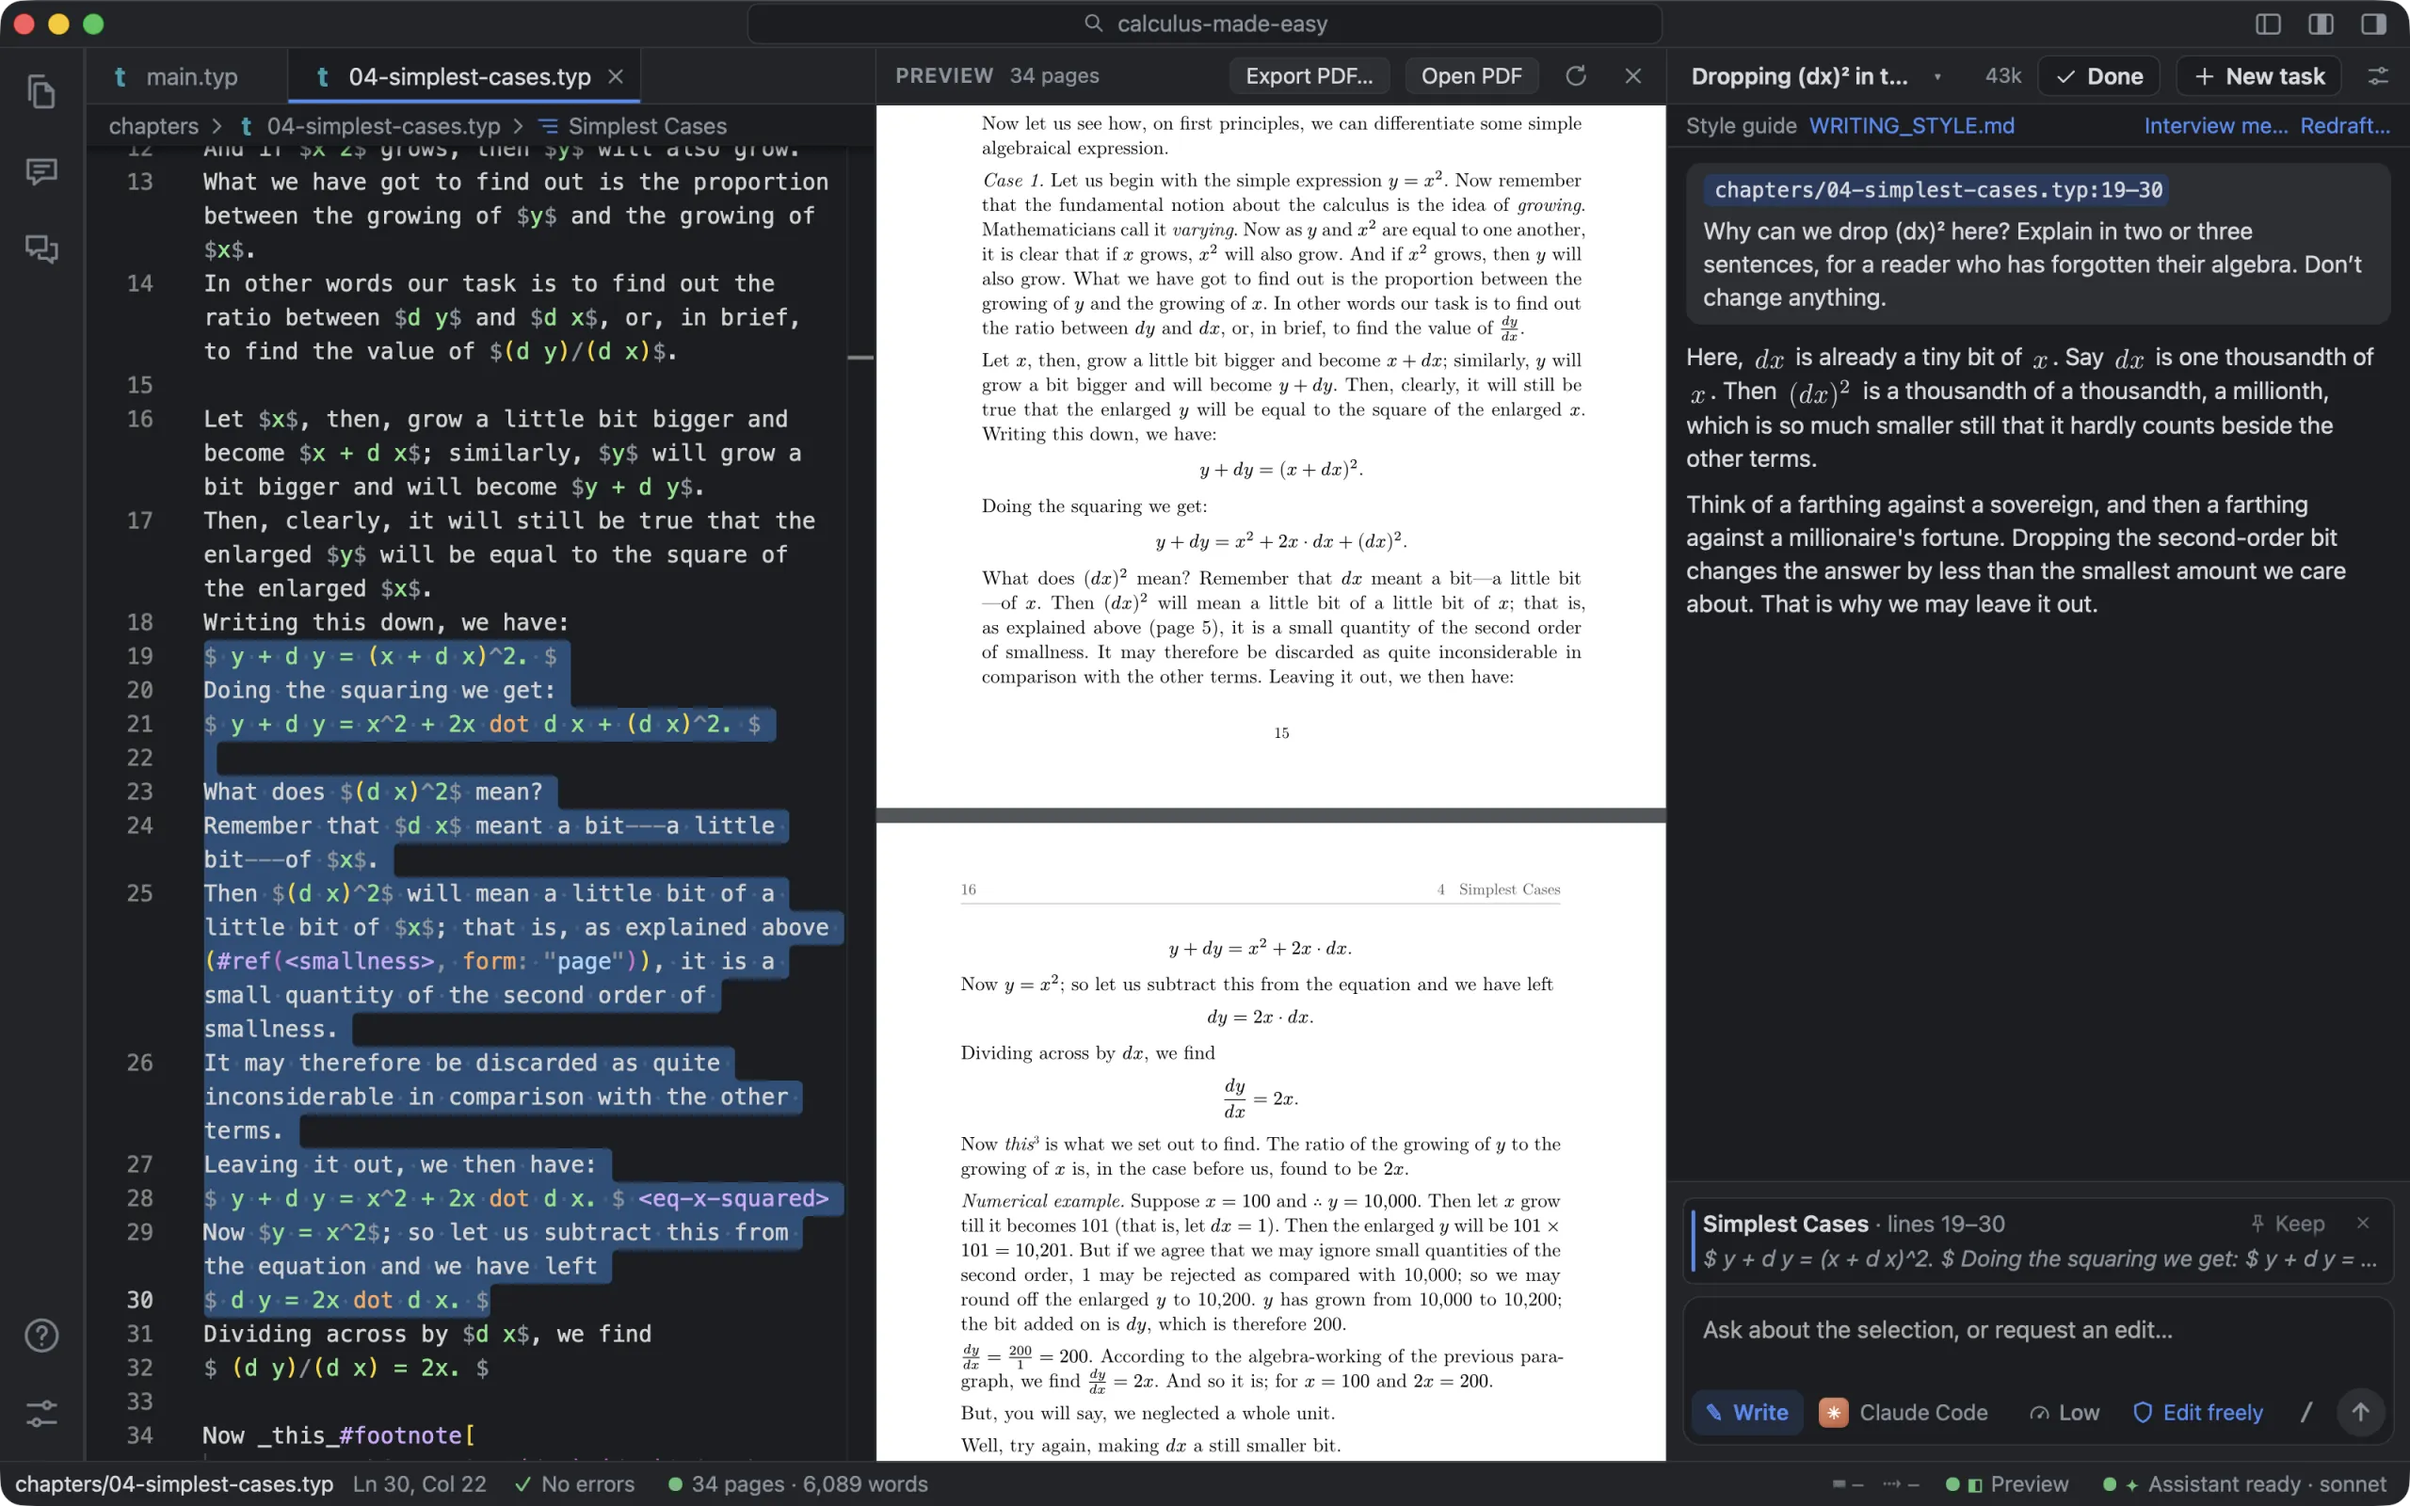
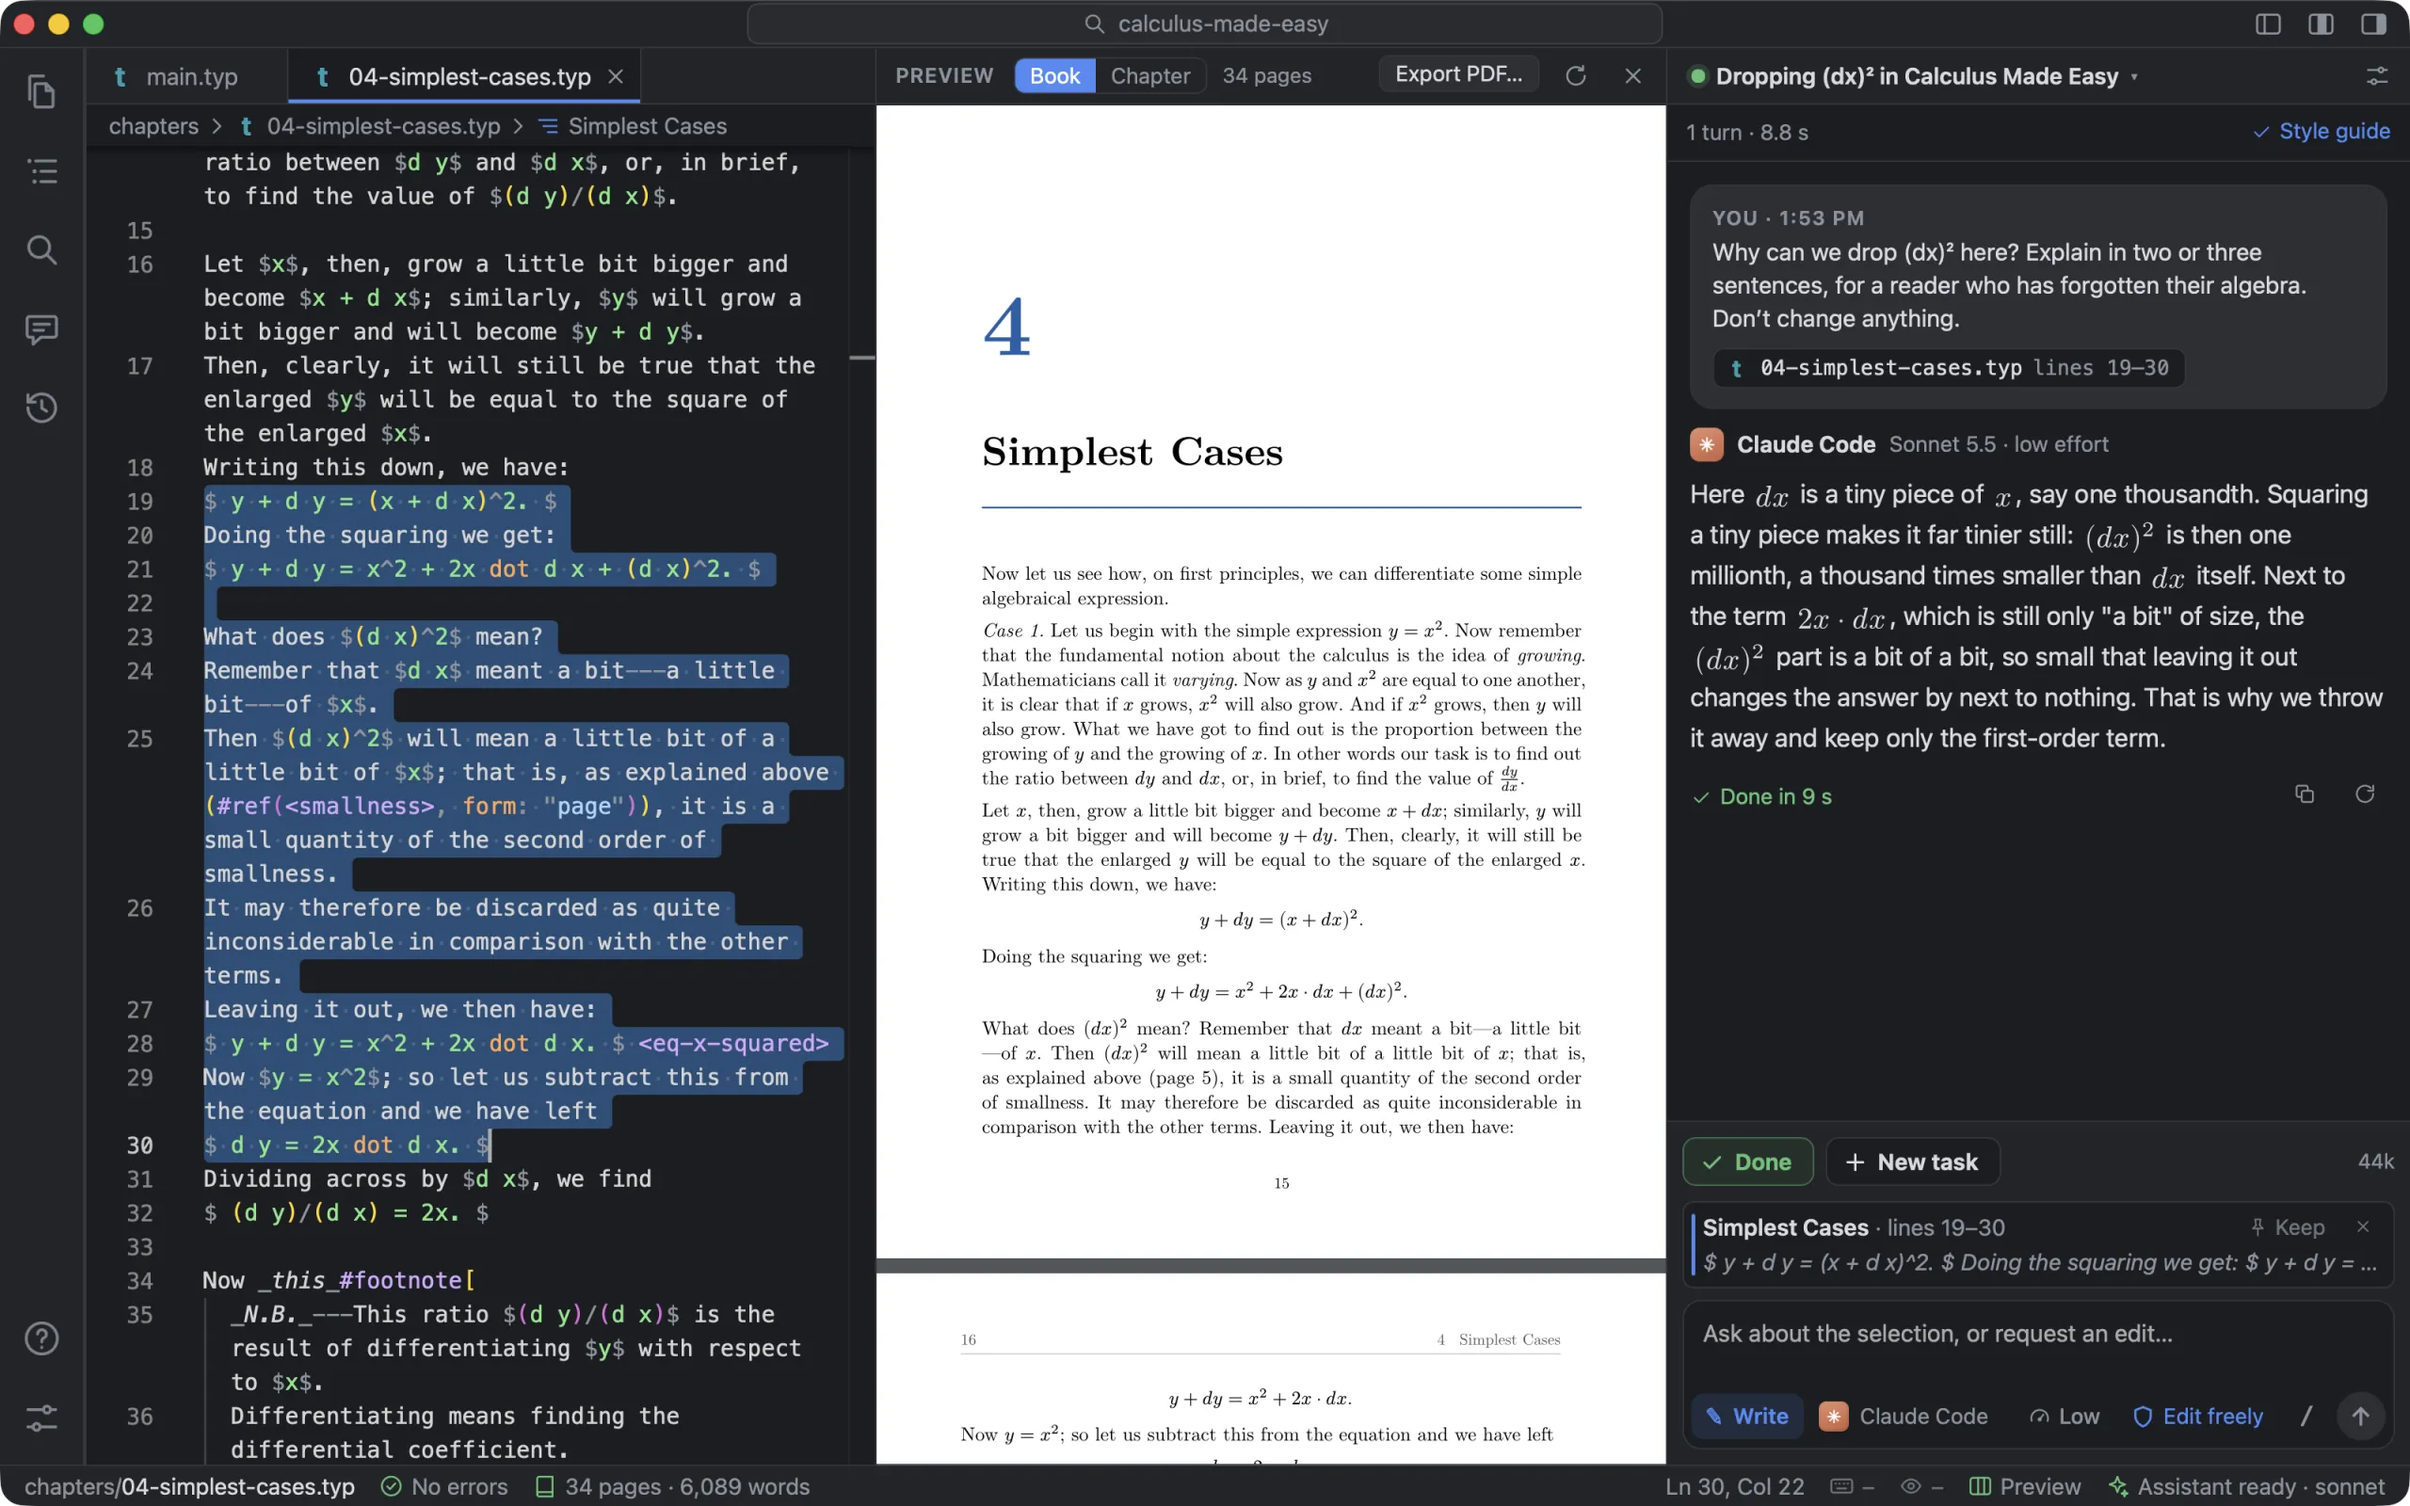
README screenshots of 0.5
The same shots as the website's, taken again in 0.5: Done and New task
above the message box, the assistant's trace as it is now, What changed
with its quiet actions, and a new style-guide interview.

diff --git a/README.md b/README.md
@@ -20,7 +20,7 @@ A Mac app for writing books in [Typst](https://typst.app). Your chapter on one s
 
 <br>
 
-<img src="docs/images/calculus.webp" alt="Foreword with Calculus Made Easy open: a chapter's Typst source with a passage selected, the typeset page with its equations, and Claude Code explaining why (dx)² can be dropped." width="100%">
+<img src="docs/images/calculus.webp" alt="Foreword with Calculus Made Easy open: a chapter's Typst source with a passage selected, the typeset page with its equations, and Claude Code explaining why (dx)² can be dropped, with Done and New task above the message box." width="100%">
 
 <sub><i>Calculus Made Easy, one of the sample books: a passage selected in the source, its page in the preview, and Claude Code explaining the step.</i></sub>
 
@@ -65,7 +65,7 @@ It redraws only the pages in view: in a 491-page book, a change shows up in abou
 <tr>
 <td width="50%" valign="top">
 
-<img src="docs/images/jekyll-edit.webp" alt="Claude Code's account of an edit to Jekyll and Hyde: the request, the chapter it read, the two edits it made, what it cut, and Is this task done?">
+<img src="docs/images/jekyll-edit.webp" alt="Claude Code's account of an edit to Jekyll and Hyde: the request, the chapter it read, its three edits with the words each changed, what it cut, and Is this task done?">
 <sub><i>Claude Code tightening the first paragraph of Jekyll and Hyde, and saying what it cut.</i></sub>
 
 </td>
@@ -123,7 +123,7 @@ Comments sit beside the text, never in it.
 <tr>
 <td width="50%" valign="top">
 
-<img src="docs/images/jekyll-changes.webp" alt="What changed in the assistant's version of chapter one, word by word: the words it cut struck through in red, the words it put in their place in green, and buttons to undo the changes or restore the file.">
+<img src="docs/images/jekyll-changes.webp" alt="What changed in the assistant's version of chapter one, word by word: the words it cut struck through in red, the words it put in their place in green, with Undo these changes, and Open, Side by side and Restore for the file.">
 <sub><i>What the assistant changed in chapter one, word by word, with Undo these changes.</i></sub>
 
 </td>
@@ -149,8 +149,8 @@ Or start from a template made for your kind of book, or have it drafted from the
 </td>
 <td width="50%" valign="top">
 
-<img src="docs/images/interview.webp" alt="The assistant's questions for Jekyll and Hyde's style guide, in a panel: four of them, the first asking how new sentences should join up, with three answers to pick from, the first recommended, and one of your own.">
-<sub><i>Claude Code writing a style guide for Jekyll and Hyde with you: how should new sentences join up?</i></sub>
+<img src="docs/images/interview.webp" alt="The assistant's questions for Jekyll and Hyde's style guide, in a panel: three of them, the first asking how closely new text should imitate Stevenson's own syntax, with three answers to pick from, the first recommended, and one of your own.">
+<sub><i>Claude Code writing a style guide for Jekyll and Hyde with you: how closely should new text imitate Stevenson?</i></sub>
 
 </td>
 </tr>
